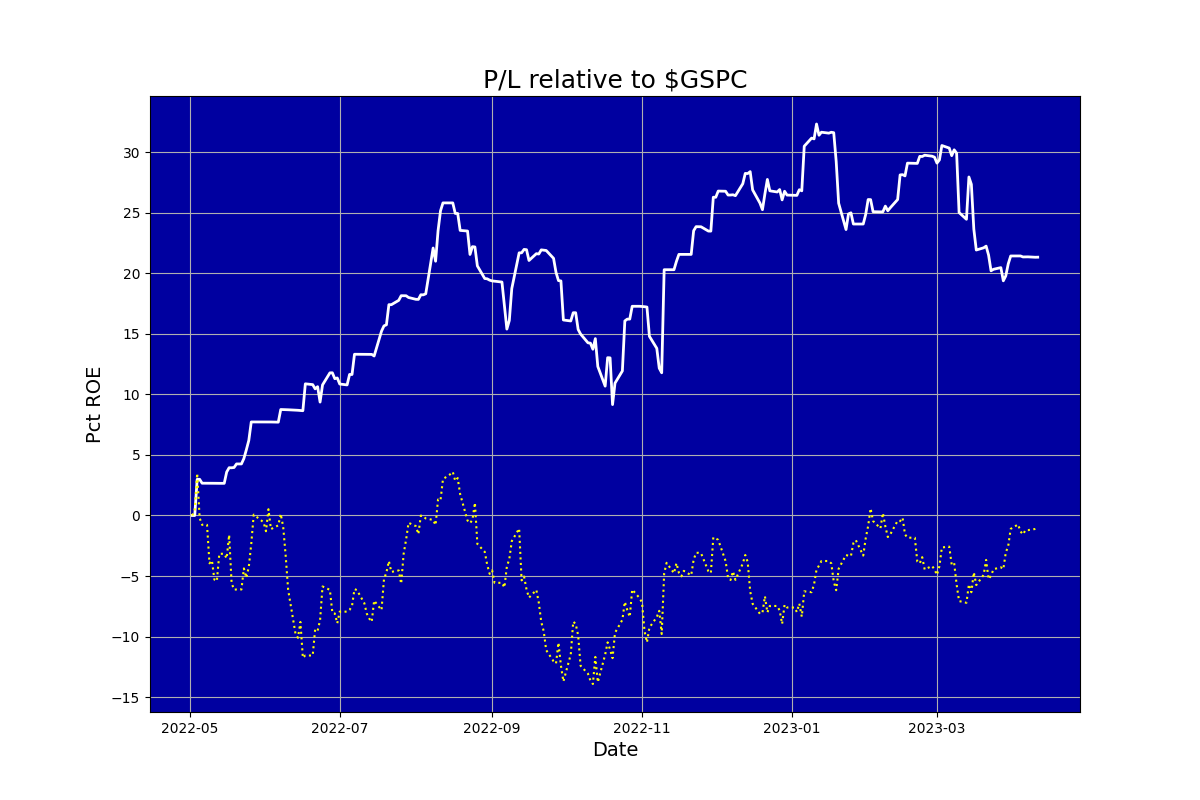
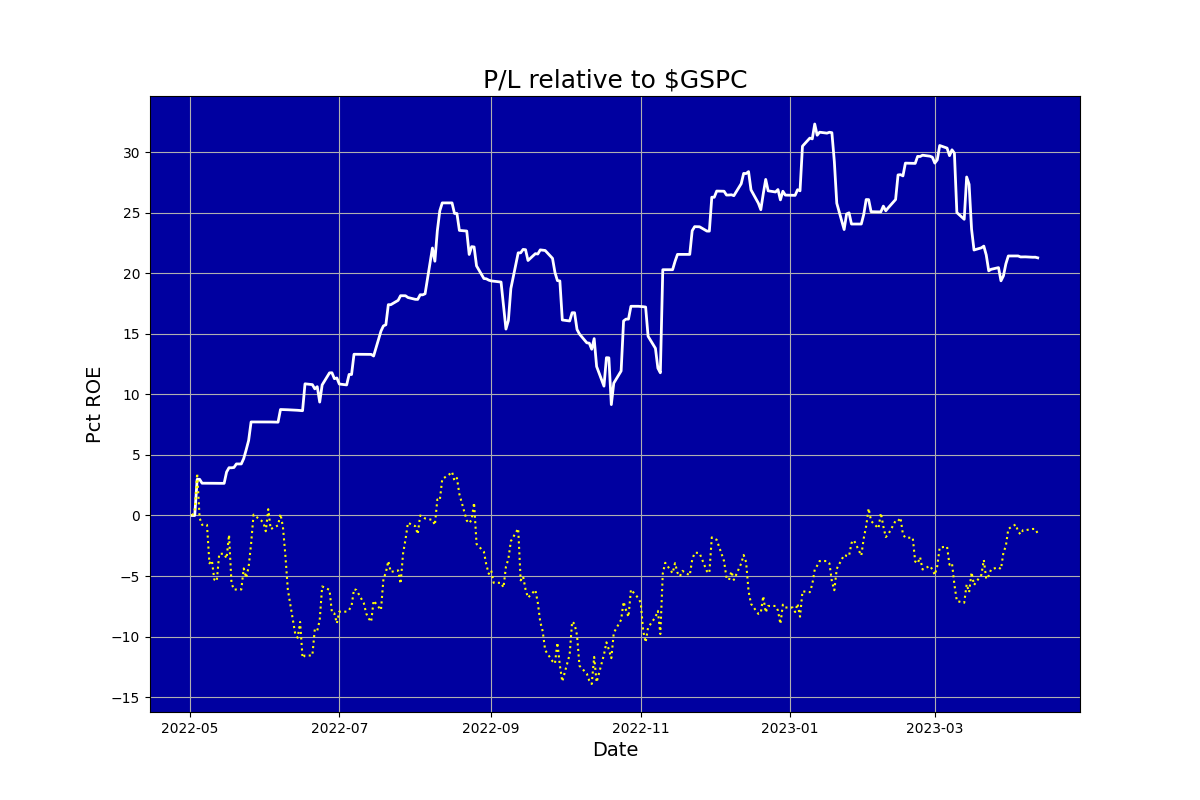
Updated

diff --git a/ig_report.html b/ig_report.html
@@ -1,1 +1,1 @@
-<html><body><center><h1>Auriel (never knowingly overbought)</h1></center><table cols=2><tr><td><img src=ig_pl.png></td><td><table cols=2><tr><td colspan=2><b><br>Snapshot</b></td></tr><tr><td>Last updated:&nbsp;&nbsp;&nbsp;</td><td>2023-04-11 15:54</td></tr><tr><td>Margin:&nbsp;&nbsp;&nbsp;</td><td>0.40</td></tr><tr><td>Cushion:&nbsp;&nbsp;&nbsp;</td><td>-9085.92</td></tr><tr><td>Last closed trade:&nbsp;&nbsp;&nbsp;</td><td>2023-04-11</td></tr><tr><td colspan=2><b><br>Positions</b></td></tr><tr><td>Mean days to new high:&nbsp;&nbsp;&nbsp;</td><td>11.78</td></tr><tr><td colspan=2><b><br>Trades</b></td></tr><tr><td>Traded days:&nbsp;&nbsp;&nbsp;</td><td>249</td></tr><tr><td>Profitable days pct:&nbsp;&nbsp;&nbsp;</td><td>38.15</td></tr><tr><td>Days beat S&P pct:&nbsp;&nbsp;&nbsp;</td><td>54.01</td></tr><tr><td>Profitable months pct:&nbsp;&nbsp;&nbsp;</td><td>66.67</td></tr><tr><td colspan=2><b><br>Performance</b></td></tr><tr><td>Pct median monthly ROE:&nbsp;&nbsp;&nbsp;</td><td>1.28</td></tr><tr><td>Pct annualised ROE:&nbsp;&nbsp;&nbsp;</td><td>21.42</td></tr><tr><td colspan=2><b><br>Risk</b></td></tr><tr><td>Volatility pct:&nbsp;&nbsp;&nbsp;</td><td>19.63</td></tr><tr><td>Benchmark volatility pct:&nbsp;&nbsp;&nbsp;</td><td>22.82</td></tr><tr><td>Sharpe ratio (RFR 5.0%):&nbsp;&nbsp;&nbsp;</td><td>0.92</td></tr><tr><td>Sortino ratio (RFR 5.0%):&nbsp;&nbsp;&nbsp;</td><td>1.29</td></tr><tr><td>Calmar ratio:&nbsp;&nbsp;&nbsp;</td><td>1.29</td></tr><tr><td>Worst drawdown pct:&nbsp;&nbsp;&nbsp;</td><td>-0.17</td></tr><tr><td>Recovery days from worst drawdown:&nbsp;&nbsp;&nbsp;</td><td>29.00</td></tr><tr><td>Beat benchmark +ve periods pct:&nbsp;&nbsp;&nbsp;</td><td>69.48</td></tr><tr><td>Beat benchmark -ve periods pct:&nbsp;&nbsp;&nbsp;</td><td>90.53</td></tr><tr><td>Correlation with benchmark:&nbsp;&nbsp;&nbsp;</td><td>0.37</td></tr></table></td></tr></table></body></html>
+<html><body><center><h1>Auriel (never knowingly overbought)</h1></center><table cols=2><tr><td><img src=ig_pl.png></td><td><table cols=2><tr><td colspan=2><b><br>Snapshot</b></td></tr><tr><td>Last updated:&nbsp;&nbsp;&nbsp;</td><td>2023-04-12 15:54</td></tr><tr><td>Margin:&nbsp;&nbsp;&nbsp;</td><td>0.41</td></tr><tr><td>Cushion:&nbsp;&nbsp;&nbsp;</td><td>-8993.31</td></tr><tr><td>Last closed trade:&nbsp;&nbsp;&nbsp;</td><td>2023-04-12</td></tr><tr><td colspan=2><b><br>Positions</b></td></tr><tr><td>Mean days to new high:&nbsp;&nbsp;&nbsp;</td><td>11.80</td></tr><tr><td colspan=2><b><br>Trades</b></td></tr><tr><td>Traded days:&nbsp;&nbsp;&nbsp;</td><td>250</td></tr><tr><td>Profitable days pct:&nbsp;&nbsp;&nbsp;</td><td>38.00</td></tr><tr><td>Days beat S&P pct:&nbsp;&nbsp;&nbsp;</td><td>55.04</td></tr><tr><td>Profitable months pct:&nbsp;&nbsp;&nbsp;</td><td>66.67</td></tr><tr><td colspan=2><b><br>Performance</b></td></tr><tr><td>Pct median monthly ROE:&nbsp;&nbsp;&nbsp;</td><td>1.28</td></tr><tr><td>Pct annualised ROE:&nbsp;&nbsp;&nbsp;</td><td>21.28</td></tr><tr><td colspan=2><b><br>Risk</b></td></tr><tr><td>Volatility pct:&nbsp;&nbsp;&nbsp;</td><td>19.59</td></tr><tr><td>Benchmark volatility pct:&nbsp;&nbsp;&nbsp;</td><td>22.77</td></tr><tr><td>Sharpe ratio (RFR 5.0%):&nbsp;&nbsp;&nbsp;</td><td>0.92</td></tr><tr><td>Sortino ratio (RFR 5.0%):&nbsp;&nbsp;&nbsp;</td><td>1.28</td></tr><tr><td>Calmar ratio:&nbsp;&nbsp;&nbsp;</td><td>1.28</td></tr><tr><td>Worst drawdown pct:&nbsp;&nbsp;&nbsp;</td><td>-0.17</td></tr><tr><td>Recovery days from worst drawdown:&nbsp;&nbsp;&nbsp;</td><td>29.00</td></tr><tr><td>Beat benchmark +ve periods pct:&nbsp;&nbsp;&nbsp;</td><td>69.05</td></tr><tr><td>Beat benchmark -ve periods pct:&nbsp;&nbsp;&nbsp;</td><td>90.46</td></tr><tr><td>Correlation with benchmark:&nbsp;&nbsp;&nbsp;</td><td>0.37</td></tr></table></td></tr></table></body></html>
